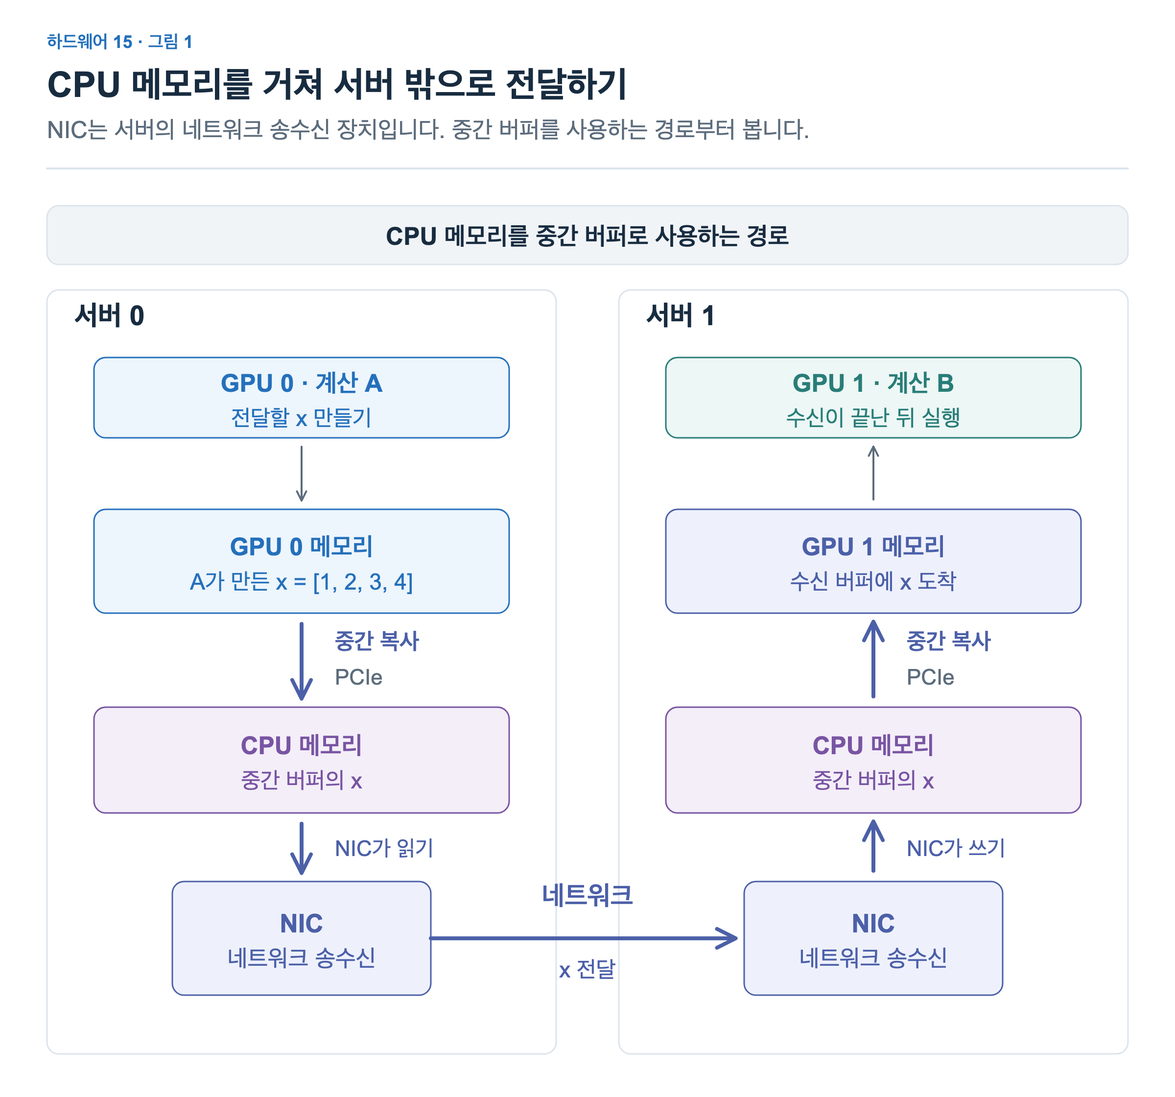
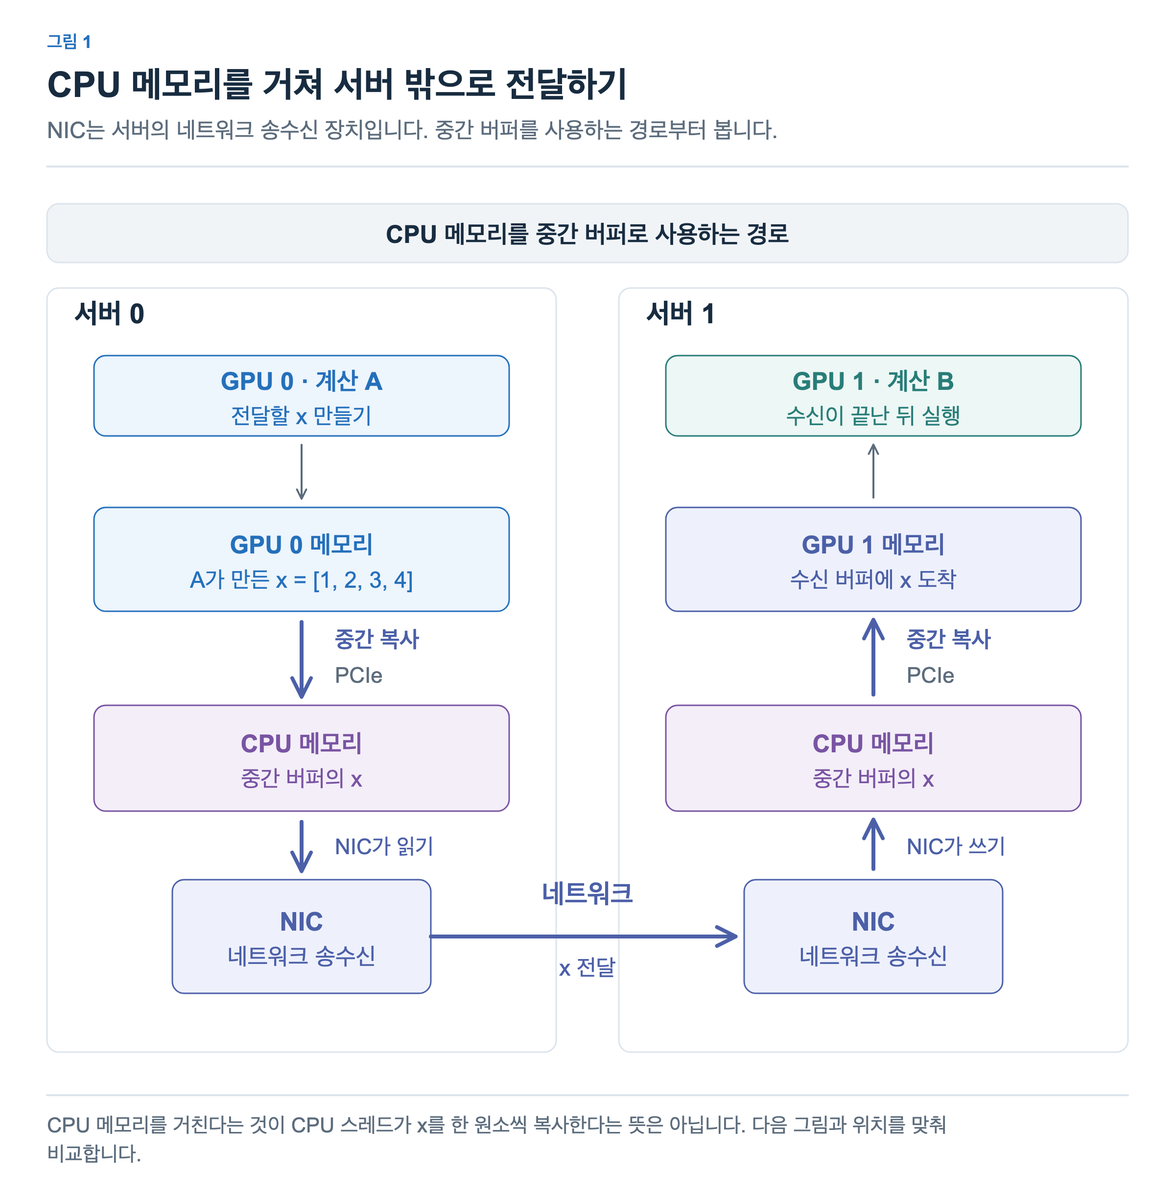
Port gpu-network-data-path figures to the shared visualization module
Figures are regenerated from src/data/figures/gpu-network-data-path with the standard frame
and in-image captions. Figures had no captions; new ko/en captions are drafted from the figures' own notes and the article text (please review).

diff --git a/src/data/figures/gpu-network-data-path/03-cpu-proxy.ts b/src/data/figures/gpu-network-data-path/03-cpu-proxy.ts
@@ -1,0 +1,76 @@
+import {C,Panel,markerUrl,type FigureSpec,type Locale} from '@llm-systems/viz';
+// Ported from the published SVG with its original geometry; replace parts with shared primitives when editing.
+export default {
+  articleId:"gpu-network-data-path",figureId:"03-cpu-proxy",number:"03-cpu-proxy",
+  layout:'wide',screens:['desktop'],
+  eyebrow:["그림 3","Figure 3"],
+  title:["CPU 프록시가 전송의 진행을 돕는 과정","How a CPU Proxy Helps Transfers Progress"],
+  subtitle:["데이터는 직접 전달하면서, CPU가 전송 요청과 완료 확인을 도울 수 있습니다.","Data moves directly while the CPU helps request transfers and check completion."],
+  alt:["이 그림은 GPUDirect RDMA와 CPU 프록시를 사용하는 경우의 송신 측 제어를 확대한다. 앞 그림과 GPU 메모리, NIC, 네트워크 위치 및 데이터 경로는 같다. CPU 사용자 코드는 NCCL을 호출하고 보조 스레드인 CPU 프록시는 데이터 버퍼와 구별된 GPU 진행 상태를 통한 데이터 준비 확인, NIC 전송 요청, 완료 확인과 GPU 진행 상태 반영을 담당한다. 주황 점선은 요청과 상태, 파란 실선은 GPU 메모리와 NIC 및 네트워크 사이 데이터 이동이다. 수신 측 제어는 생략하며 모든 NIC 경로가 CPU 프록시를 요구한다는 뜻이 아니다.","A sending-side CPU proxy used together with GPUDirect RDMA. The GPU memory, NIC and network positions and data path match the preceding figure. User CPU code calls NCCL. A CPU helper thread checks readiness through GPU progress state separate from x, requests the NIC transfer, checks completion and updates GPU-side state. Orange dashed arrows are requests and state; blue solid arrows are data movement. Receive-side control is omitted. Not every NIC path requires a CPU proxy."],
+  caption:["송신 측 제어만 확대했으며, 모든 NIC 경로에 CPU 프록시가 필요한 것은 아닙니다.","Only send-side control is shown; not every NIC path needs a CPU proxy."],
+  sources:[],
+  panels(locale:Locale){
+    const p=new Panel(locale,null,1247,1104,[48,208]);
+    p.el("rect",{x:48,y:210,width:1104,height:60,rx:12,fill:C.grayFill,stroke:C.line,"stroke-width":1.5});
+    p.el('text',{x:600,y:250,fill:C.ink,"font-size":25,"font-weight":600,"text-anchor":"middle"},["송신 측 CPU 프록시 확대 · GPUDirect RDMA 경로","Send-side CPU proxy detail · GPUDirect RDMA path"]);
+    p.el("rect",{x:48,y:296,width:520,height:780,rx:12,fill:C.paper,stroke:C.line,"stroke-width":1.5});
+    p.el('text',{x:76,y:332,fill:C.ink,"font-size":28,"font-weight":700,"text-anchor":"start"},["서버 0","Server 0"]);
+    p.el("rect",{x:632,y:296,width:520,height:780,rx:12,fill:C.paper,stroke:C.line,"stroke-width":1.5});
+    p.el('text',{x:660,y:332,fill:C.ink,"font-size":28,"font-weight":700,"text-anchor":"start"},["서버 1","Server 1"]);
+    p.el("rect",{x:96,y:365,width:424,height:82,rx:12,fill:C.grayFill,stroke:C.ink,"stroke-width":1.5});
+    p.el('text',{x:308,y:400,fill:C.ink,"font-size":25,"font-weight":600,"text-anchor":"middle"},["CPU · 사용자 코드","CPU · User code"]);
+    p.el('text',{x:308,y:435,fill:C.ink,"font-size":23,"font-weight":400,"text-anchor":"middle"},["NCCL 통신 호출","Call NCCL communication"]);
+    p.el("rect",{x:680,y:365,width:424,height:82,rx:12,fill:C.tealFill,stroke:C.teal,"stroke-width":1.5});
+    p.el('text',{x:892,y:400,fill:C.teal,"font-size":25,"font-weight":600,"text-anchor":"middle"},["GPU 1 · 계산 B","GPU 1 · Compute B"]);
+    p.el('text',{x:892,y:435,fill:C.teal,"font-size":23,"font-weight":400,"text-anchor":"middle"},["수신이 끝난 뒤 실행","Run after receive completes"]);
+    p.el("rect",{x:96,y:520,width:424,height:106,rx:12,fill:C.blueFill,stroke:C.blue,"stroke-width":1.5});
+    p.el('text',{x:308,y:567,fill:C.blue,"font-size":25,"font-weight":600,"text-anchor":"middle"},["GPU 0 메모리","GPU 0 memory"]);
+    p.el('text',{x:308,y:602,fill:C.blue,"font-size":23,"font-weight":400,"text-anchor":"middle"},["A가 만든 x = [1, 2, 3, 4]","A produced x = [1, 2, 3, 4]"]);
+    p.el("rect",{x:680,y:520,width:424,height:106,rx:12,fill:C.indigoFill,stroke:C.indigo,"stroke-width":1.5});
+    p.el('text',{x:892,y:567,fill:C.indigo,"font-size":25,"font-weight":600,"text-anchor":"middle"},["GPU 1 메모리","GPU 1 memory"]);
+    p.el('text',{x:892,y:602,fill:C.indigo,"font-size":23,"font-weight":400,"text-anchor":"middle"},["수신 버퍼에 x 도착","x arrives in receive buffer"]);
+    p.el("path",{d:"M892,510 V457",fill:"none",stroke:C.muted,"stroke-width":2,"marker-end":markerUrl(C.muted)});
+    p.el("rect",{x:176,y:900,width:264,height:116,rx:12,fill:C.indigoFill,stroke:C.indigo,"stroke-width":1.5});
+    p.el('text',{x:308,y:952,fill:C.indigo,"font-size":26,"font-weight":600,"text-anchor":"middle"},"NIC");
+    p.el('text',{x:308,y:987,fill:C.indigo,"font-size":(locale==='ko'?24:23),"font-weight":400,"text-anchor":"middle"},["네트워크 송수신","Network send/receive"]);
+    p.el("rect",{x:760,y:900,width:264,height:116,rx:12,fill:C.indigoFill,stroke:C.indigo,"stroke-width":1.5});
+    p.el('text',{x:892,y:952,fill:C.indigo,"font-size":26,"font-weight":600,"text-anchor":"middle"},"NIC");
+    p.el('text',{x:892,y:987,fill:C.indigo,"font-size":(locale==='ko'?24:23),"font-weight":400,"text-anchor":"middle"},["네트워크 송수신","Network send/receive"]);
+    p.el("path",{d:"M308,637 V889",fill:"none",stroke:C.indigo,"stroke-width":4,"marker-end":markerUrl(C.indigo)});
+    p.el('text',{x:342,y:698,fill:C.indigo,"font-size":24,"font-weight":600,"text-anchor":"start"},"PCIe");
+    p.el('text',{x:342,y:738,fill:C.muted,"font-size":23,"font-weight":400,"text-anchor":"start"},["NIC가","NIC"]);
+    p.el('text',{x:342,y:774,fill:C.muted,"font-size":23,"font-weight":400,"text-anchor":"start"},["x 읽기","reads x"]);
+    p.el("path",{d:"M892,889 V637",fill:"none",stroke:C.indigo,"stroke-width":4,"marker-end":markerUrl(C.indigo)});
+    p.el('text',{x:926,y:698,fill:C.indigo,"font-size":24,"font-weight":600,"text-anchor":"start"},"PCIe");
+    p.el('text',{x:926,y:738,fill:C.muted,"font-size":23,"font-weight":400,"text-anchor":"start"},["NIC가","NIC"]);
+    p.el('text',{x:926,y:774,fill:C.muted,"font-size":23,"font-weight":400,"text-anchor":"start"},["x 쓰기","writes x"]);
+    p.el("path",{d:"M440,958 H749",fill:"none",stroke:C.indigo,"stroke-width":4,"marker-end":markerUrl(C.indigo)});
+    p.el('text',{x:600,y:924,fill:C.indigo,"font-size":27,"font-weight":600,"text-anchor":"middle"},["네트워크","Network"]);
+    p.el('text',{x:600,y:998,fill:C.indigo,"font-size":23,"font-weight":400,"text-anchor":"middle"},["x 전달","Transfer x"]);
+    p.el("rect",{x:104,y:650,width:188,height:44,rx:12,fill:C.orangeFill,stroke:C.orange,"stroke-width":1.5});
+    p.el('text',{x:198,y:681,fill:C.orange,"font-size":(locale==='ko'?22:19),"font-weight":600,"text-anchor":"middle"},["GPU 진행 상태","GPU progress state"]);
+    p.el("rect",{x:96,y:730,width:200,height:104,rx:12,fill:C.orangeFill,stroke:C.orange,"stroke-width":1.5});
+    p.el('text',{x:196,y:776,fill:C.orange,"font-size":24,"font-weight":600,"text-anchor":"middle"},["CPU 프록시","CPU proxy"]);
+    p.el('text',{x:196,y:811,fill:C.orange,"font-size":22,"font-weight":400,"text-anchor":"middle"},["보조 스레드","Helper thread"]);
+    p.el("path",{d:"M96,406 H64 V782 H86",fill:"none",stroke:C.orange,"stroke-width":2.5,"marker-end":markerUrl(C.orange),"stroke-dasharray":"7 7"});
+    p.el("path",{d:"M166,695 V719",fill:"none",stroke:C.orange,"stroke-width":2.5,"marker-end":markerUrl(C.orange),"stroke-dasharray":"7 7"});
+    p.el("path",{d:"M246,729 V705",fill:"none",stroke:C.orange,"stroke-width":2.5,"marker-end":markerUrl(C.orange),"stroke-dasharray":"7 7"});
+    p.el("path",{d:"M236,835 V870 H210 V889",fill:"none",stroke:C.orange,"stroke-width":2.5,"marker-end":markerUrl(C.orange),"stroke-dasharray":"7 7"});
+    p.el("path",{d:"M176,978 H120 V845",fill:"none",stroke:C.orange,"stroke-width":2.5,"marker-end":markerUrl(C.orange),"stroke-dasharray":"7 7"});
+    p.el('text',{x:137,y:716,fill:C.orange,"font-size":23,"font-weight":600,"text-anchor":"start"},"①");
+    p.el('text',{x:250,y:716,fill:C.orange,"font-size":23,"font-weight":600,"text-anchor":"start"},"③");
+    p.el('text',{x:246,y:882,fill:C.orange,"font-size":23,"font-weight":600,"text-anchor":"start"},"②");
+    p.el('text',{x:82,y:936,fill:C.orange,"font-size":23,"font-weight":600,"text-anchor":"start"},"③");
+    p.el("path",{d:"M70,1125 H150",fill:"none",stroke:C.orange,"stroke-width":2.5,"marker-end":markerUrl(C.orange),"stroke-dasharray":"7 7"});
+    p.el('text',{x:170,y:1133,fill:C.orange,"font-size":23,"font-weight":400,"text-anchor":"start"},["요청·상태","Requests / state"]);
+    p.el("path",{d:"M400,1125 H480",fill:"none",stroke:C.indigo,"stroke-width":4,"marker-end":markerUrl(C.indigo)});
+    p.el('text',{x:500,y:1133,fill:C.indigo,"font-size":23,"font-weight":400,"text-anchor":"start"},["데이터 이동","Data movement"]);
+    p.el('text',{x:48,y:1197,fill:C.orange,"font-size":27,"font-weight":600,"text-anchor":"start"},["① 데이터 준비 확인","① Check data readiness"]);
+    p.el('text',{x:48,y:1239,fill:C.muted,"font-size":24,"font-weight":400,"text-anchor":"start"},["GPU 쪽에서 송신할 데이터가 준비되었는지 확인","Check whether the GPU-side data is ready to send"]);
+    p.el('text',{x:48,y:1297,fill:C.orange,"font-size":27,"font-weight":600,"text-anchor":"start"},["② 전송 요청","② Request transfer"]);
+    p.el('text',{x:48,y:1339,fill:C.muted,"font-size":24,"font-weight":400,"text-anchor":"start"},["NIC가 데이터를 읽어 보내도록 요청","Ask the NIC to read and send the data"]);
+    p.el('text',{x:48,y:1397,fill:C.orange,"font-size":27,"font-weight":600,"text-anchor":"start"},["③ 완료 확인과 상태 반영","③ Check completion and update state"]);
+    p.el('text',{x:48,y:1439,fill:C.muted,"font-size":24,"font-weight":400,"text-anchor":"start"},["NIC의 전송 완료를 확인하고 GPU 쪽 진행 상태에 반영","Check NIC transfer completion and update GPU-side progress state"]);
+    return [p];
+  },
+} satisfies FigureSpec;

diff --git a/src/data/figures/gpu-network-data-path/01-host-memory-staging.ts b/src/data/figures/gpu-network-data-path/01-host-memory-staging.ts
@@ -1,0 +1,61 @@
+import {C,Panel,markerUrl,type FigureSpec,type Locale} from '@llm-systems/viz';
+// Ported from the published SVG with its original geometry; replace parts with shared primitives when editing.
+export default {
+  articleId:"gpu-network-data-path",figureId:"01-host-memory-staging",number:"01-host-memory-staging",
+  layout:'wide',screens:['desktop'],
+  eyebrow:["그림 1","Figure 1"],
+  title:["CPU 메모리를 거쳐 서버 밖으로 전달하기","Sending Across Servers via CPU Memory"],
+  subtitle:["NIC는 서버의 네트워크 송수신 장치입니다. 중간 버퍼를 사용하는 경로부터 봅니다.","A NIC sends and receives network data. Start with an intermediate-buffer path."],
+  alt:["CPU 메모리를 중간 버퍼로 사용하는 경로의 예시다. 서버 0에서 GPU 0의 A가 만든 x를 CPU 메모리에 복사하고 NIC가 그 버퍼를 읽어 네트워크로 전송한다. 서버 1의 NIC가 받은 x를 CPU 메모리에 쓰고 GPU 1 메모리로 복사한다. 수신이 완료되어 값을 사용할 수 있게 되면 B가 실행된다. CPU 메모리를 사용한다는 것은 CPU의 스레드가 x를 직접 한 원소씩 복사한다는 뜻이 아니다. 다음 그림과 GPU 메모리, NIC, 네트워크 위치를 맞춰 중간 복사가 빠지는 부분을 비교한다.","An example path using intermediate CPU-memory buffers. On server 0, x produced by A on GPU 0 is copied to CPU memory and read by the NIC for network transfer. On server 1 the NIC writes x to CPU memory, then it is copied to GPU 1 memory. B runs once the receive completes and x is usable. CPU memory does not mean CPU threads copy each element. GPU memory, NICs and the network have the same positions in the next figure."],
+  caption:["CPU 메모리를 거친다는 것이 CPU 스레드가 x를 한 원소씩 복사한다는 뜻은 아닙니다. 다음 그림과 위치를 맞춰 비교합니다.","Going through CPU memory does not mean CPU threads copy x element by element. Positions match the next figure for comparison."],
+  sources:[],
+  panels(locale:Locale){
+    const p=new Panel(locale,null,876,1104,[48,208]);
+    p.el("rect",{x:48,y:210,width:1104,height:60,rx:12,fill:C.grayFill,stroke:C.line,"stroke-width":1.5});
+    p.el('text',{x:600,y:250,fill:C.ink,"font-size":25,"font-weight":600,"text-anchor":"middle"},["CPU 메모리를 중간 버퍼로 사용하는 경로","Path using CPU memory as an intermediate buffer"]);
+    p.el("rect",{x:48,y:296,width:520,height:780,rx:12,fill:C.paper,stroke:C.line,"stroke-width":1.5});
+    p.el('text',{x:76,y:332,fill:C.ink,"font-size":28,"font-weight":700,"text-anchor":"start"},["서버 0","Server 0"]);
+    p.el("rect",{x:632,y:296,width:520,height:780,rx:12,fill:C.paper,stroke:C.line,"stroke-width":1.5});
+    p.el('text',{x:660,y:332,fill:C.ink,"font-size":28,"font-weight":700,"text-anchor":"start"},["서버 1","Server 1"]);
+    p.el("rect",{x:96,y:365,width:424,height:82,rx:12,fill:C.blueFill,stroke:C.blue,"stroke-width":1.5});
+    p.el('text',{x:308,y:400,fill:C.blue,"font-size":25,"font-weight":600,"text-anchor":"middle"},["GPU 0 · 계산 A","GPU 0 · Compute A"]);
+    p.el('text',{x:308,y:435,fill:C.blue,"font-size":23,"font-weight":400,"text-anchor":"middle"},["전달할 x 만들기","Produce x to send"]);
+    p.el("rect",{x:680,y:365,width:424,height:82,rx:12,fill:C.tealFill,stroke:C.teal,"stroke-width":1.5});
+    p.el('text',{x:892,y:400,fill:C.teal,"font-size":25,"font-weight":600,"text-anchor":"middle"},["GPU 1 · 계산 B","GPU 1 · Compute B"]);
+    p.el('text',{x:892,y:435,fill:C.teal,"font-size":23,"font-weight":400,"text-anchor":"middle"},["수신이 끝난 뒤 실행","Run after receive completes"]);
+    p.el("rect",{x:96,y:520,width:424,height:106,rx:12,fill:C.blueFill,stroke:C.blue,"stroke-width":1.5});
+    p.el('text',{x:308,y:567,fill:C.blue,"font-size":25,"font-weight":600,"text-anchor":"middle"},["GPU 0 메모리","GPU 0 memory"]);
+    p.el('text',{x:308,y:602,fill:C.blue,"font-size":23,"font-weight":400,"text-anchor":"middle"},["A가 만든 x = [1, 2, 3, 4]","A produced x = [1, 2, 3, 4]"]);
+    p.el("rect",{x:680,y:520,width:424,height:106,rx:12,fill:C.indigoFill,stroke:C.indigo,"stroke-width":1.5});
+    p.el('text',{x:892,y:567,fill:C.indigo,"font-size":25,"font-weight":600,"text-anchor":"middle"},["GPU 1 메모리","GPU 1 memory"]);
+    p.el('text',{x:892,y:602,fill:C.indigo,"font-size":23,"font-weight":400,"text-anchor":"middle"},["수신 버퍼에 x 도착","x arrives in receive buffer"]);
+    p.el("path",{d:"M308,456 V510",fill:"none",stroke:C.muted,"stroke-width":2,"marker-end":markerUrl(C.muted)});
+    p.el("path",{d:"M892,510 V457",fill:"none",stroke:C.muted,"stroke-width":2,"marker-end":markerUrl(C.muted)});
+    p.el("rect",{x:176,y:900,width:264,height:116,rx:12,fill:C.indigoFill,stroke:C.indigo,"stroke-width":1.5});
+    p.el('text',{x:308,y:952,fill:C.indigo,"font-size":26,"font-weight":600,"text-anchor":"middle"},"NIC");
+    p.el('text',{x:308,y:987,fill:C.indigo,"font-size":(locale==='ko'?24:23),"font-weight":400,"text-anchor":"middle"},["네트워크 송수신","Network send/receive"]);
+    p.el("rect",{x:760,y:900,width:264,height:116,rx:12,fill:C.indigoFill,stroke:C.indigo,"stroke-width":1.5});
+    p.el('text',{x:892,y:952,fill:C.indigo,"font-size":26,"font-weight":600,"text-anchor":"middle"},"NIC");
+    p.el('text',{x:892,y:987,fill:C.indigo,"font-size":(locale==='ko'?24:23),"font-weight":400,"text-anchor":"middle"},["네트워크 송수신","Network send/receive"]);
+    p.el("rect",{x:96,y:722,width:424,height:108,rx:12,fill:C.purpleFill,stroke:C.purple,"stroke-width":1.5});
+    p.el('text',{x:308,y:770,fill:C.purple,"font-size":25,"font-weight":600,"text-anchor":"middle"},["CPU 메모리","CPU memory"]);
+    p.el('text',{x:308,y:805,fill:C.purple,"font-size":23,"font-weight":400,"text-anchor":"middle"},["중간 버퍼의 x","x in intermediate buffer"]);
+    p.el("rect",{x:680,y:722,width:424,height:108,rx:12,fill:C.purpleFill,stroke:C.purple,"stroke-width":1.5});
+    p.el('text',{x:892,y:770,fill:C.purple,"font-size":25,"font-weight":600,"text-anchor":"middle"},["CPU 메모리","CPU memory"]);
+    p.el('text',{x:892,y:805,fill:C.purple,"font-size":23,"font-weight":400,"text-anchor":"middle"},["중간 버퍼의 x","x in intermediate buffer"]);
+    p.el("path",{d:"M308,637 V711",fill:"none",stroke:C.indigo,"stroke-width":4,"marker-end":markerUrl(C.indigo)});
+    p.el("path",{d:"M308,841 V889",fill:"none",stroke:C.indigo,"stroke-width":4,"marker-end":markerUrl(C.indigo)});
+    p.el("path",{d:"M892,711 V637",fill:"none",stroke:C.indigo,"stroke-width":4,"marker-end":markerUrl(C.indigo)});
+    p.el("path",{d:"M892,889 V841",fill:"none",stroke:C.indigo,"stroke-width":4,"marker-end":markerUrl(C.indigo)});
+    p.el('text',{x:342,y:663,fill:C.indigo,"font-size":23,"font-weight":600,"text-anchor":"start"},["중간 복사","Staging copy"]);
+    p.el('text',{x:342,y:699,fill:C.muted,"font-size":22,"font-weight":400,"text-anchor":"start"},"PCIe");
+    p.el('text',{x:926,y:663,fill:C.indigo,"font-size":23,"font-weight":600,"text-anchor":"start"},["중간 복사","Staging copy"]);
+    p.el('text',{x:926,y:699,fill:C.muted,"font-size":22,"font-weight":400,"text-anchor":"start"},"PCIe");
+    p.el('text',{x:342,y:874,fill:C.indigo,"font-size":22,"font-weight":400,"text-anchor":"start"},["NIC가 읽기","NIC reads"]);
+    p.el('text',{x:926,y:874,fill:C.indigo,"font-size":22,"font-weight":400,"text-anchor":"start"},["NIC가 쓰기","NIC writes"]);
+    p.el("path",{d:"M440,958 H749",fill:"none",stroke:C.indigo,"stroke-width":4,"marker-end":markerUrl(C.indigo)});
+    p.el('text',{x:600,y:924,fill:C.indigo,"font-size":27,"font-weight":600,"text-anchor":"middle"},["네트워크","Network"]);
+    p.el('text',{x:600,y:998,fill:C.indigo,"font-size":23,"font-weight":400,"text-anchor":"middle"},["x 전달","Transfer x"]);
+    return [p];
+  },
+} satisfies FigureSpec;

diff --git a/src/data/figures/gpu-network-data-path/02-direct-gpu-memory.ts b/src/data/figures/gpu-network-data-path/02-direct-gpu-memory.ts
@@ -1,0 +1,53 @@
+import {C,Panel,markerUrl,type FigureSpec,type Locale} from '@llm-systems/viz';
+// Ported from the published SVG with its original geometry; replace parts with shared primitives when editing.
+export default {
+  articleId:"gpu-network-data-path",figureId:"02-direct-gpu-memory",number:"02-direct-gpu-memory",
+  layout:'wide',screens:['desktop'],
+  eyebrow:["그림 2","Figure 2"],
+  title:["중간 복사를 줄이는 GPUDirect RDMA","Reducing Copies with GPUDirect RDMA"],
+  subtitle:["NIC가 GPU 메모리에 직접 접근해 CPU 메모리의 중간 버퍼를 거치지 않습니다.","The NIC directly accesses GPU memory, bypassing intermediate CPU buffers."],
+  alt:["GPUDirect RDMA가 지원되는 경로에서 서버 0의 GPU 메모리에 A가 만든 x가 있다. 송신 NIC가 PCIe를 통해 x를 읽고 네트워크로 전달한다. 서버 1의 수신 NIC는 PCIe를 통해 GPU 메모리에 x를 쓴다. 수신 완료 뒤 B가 실행된다. NIC는 네트워크 송수신 장치이며 실제 데이터는 CPU 메모리를 중간 버퍼로 거치지 않는다. 이 그림은 CPU의 제어 참여 여부를 나타내지 않는다.","With GPUDirect RDMA support, the sending NIC reads x produced by A directly from GPU 0 memory through PCIe and sends it across the network. The receiving NIC writes x into GPU 1 memory through PCIe. B runs after receive completion. The data does not use intermediate CPU-memory buffers. The figure does not specify whether the CPU participates in transfer control."],
+  caption:["GPUDirect RDMA를 지원하는 경로입니다. 이 그림은 CPU가 제어에 참여하는지 여부를 나타내지 않습니다.","This is a path that supports GPUDirect RDMA; the figure does not show whether the CPU takes part in control."],
+  sources:[],
+  panels(locale:Locale){
+    const p=new Panel(locale,null,876,1104,[48,208]);
+    p.el("rect",{x:48,y:210,width:1104,height:60,rx:12,fill:C.grayFill,stroke:C.line,"stroke-width":1.5});
+    p.el('text',{x:600,y:250,fill:C.ink,"font-size":25,"font-weight":600,"text-anchor":"middle"},["GPUDirect RDMA가 지원되는 환경","Environment with GPUDirect RDMA support"]);
+    p.el("rect",{x:48,y:296,width:520,height:780,rx:12,fill:C.paper,stroke:C.line,"stroke-width":1.5});
+    p.el('text',{x:76,y:332,fill:C.ink,"font-size":28,"font-weight":700,"text-anchor":"start"},["서버 0","Server 0"]);
+    p.el("rect",{x:632,y:296,width:520,height:780,rx:12,fill:C.paper,stroke:C.line,"stroke-width":1.5});
+    p.el('text',{x:660,y:332,fill:C.ink,"font-size":28,"font-weight":700,"text-anchor":"start"},["서버 1","Server 1"]);
+    p.el("rect",{x:96,y:365,width:424,height:82,rx:12,fill:C.blueFill,stroke:C.blue,"stroke-width":1.5});
+    p.el('text',{x:308,y:400,fill:C.blue,"font-size":25,"font-weight":600,"text-anchor":"middle"},["GPU 0 · 계산 A","GPU 0 · Compute A"]);
+    p.el('text',{x:308,y:435,fill:C.blue,"font-size":23,"font-weight":400,"text-anchor":"middle"},["전달할 x 만들기","Produce x to send"]);
+    p.el("rect",{x:680,y:365,width:424,height:82,rx:12,fill:C.tealFill,stroke:C.teal,"stroke-width":1.5});
+    p.el('text',{x:892,y:400,fill:C.teal,"font-size":25,"font-weight":600,"text-anchor":"middle"},["GPU 1 · 계산 B","GPU 1 · Compute B"]);
+    p.el('text',{x:892,y:435,fill:C.teal,"font-size":23,"font-weight":400,"text-anchor":"middle"},["수신이 끝난 뒤 실행","Run after receive completes"]);
+    p.el("rect",{x:96,y:520,width:424,height:106,rx:12,fill:C.blueFill,stroke:C.blue,"stroke-width":1.5});
+    p.el('text',{x:308,y:567,fill:C.blue,"font-size":25,"font-weight":600,"text-anchor":"middle"},["GPU 0 메모리","GPU 0 memory"]);
+    p.el('text',{x:308,y:602,fill:C.blue,"font-size":23,"font-weight":400,"text-anchor":"middle"},["A가 만든 x = [1, 2, 3, 4]","A produced x = [1, 2, 3, 4]"]);
+    p.el("rect",{x:680,y:520,width:424,height:106,rx:12,fill:C.indigoFill,stroke:C.indigo,"stroke-width":1.5});
+    p.el('text',{x:892,y:567,fill:C.indigo,"font-size":25,"font-weight":600,"text-anchor":"middle"},["GPU 1 메모리","GPU 1 memory"]);
+    p.el('text',{x:892,y:602,fill:C.indigo,"font-size":23,"font-weight":400,"text-anchor":"middle"},["수신 버퍼에 x 도착","x arrives in receive buffer"]);
+    p.el("path",{d:"M308,456 V510",fill:"none",stroke:C.muted,"stroke-width":2,"marker-end":markerUrl(C.muted)});
+    p.el("path",{d:"M892,510 V457",fill:"none",stroke:C.muted,"stroke-width":2,"marker-end":markerUrl(C.muted)});
+    p.el("rect",{x:176,y:900,width:264,height:116,rx:12,fill:C.indigoFill,stroke:C.indigo,"stroke-width":1.5});
+    p.el('text',{x:308,y:952,fill:C.indigo,"font-size":26,"font-weight":600,"text-anchor":"middle"},"NIC");
+    p.el('text',{x:308,y:987,fill:C.indigo,"font-size":(locale==='ko'?24:23),"font-weight":400,"text-anchor":"middle"},["네트워크 송수신","Network send/receive"]);
+    p.el("rect",{x:760,y:900,width:264,height:116,rx:12,fill:C.indigoFill,stroke:C.indigo,"stroke-width":1.5});
+    p.el('text',{x:892,y:952,fill:C.indigo,"font-size":26,"font-weight":600,"text-anchor":"middle"},"NIC");
+    p.el('text',{x:892,y:987,fill:C.indigo,"font-size":(locale==='ko'?24:23),"font-weight":400,"text-anchor":"middle"},["네트워크 송수신","Network send/receive"]);
+    p.el("path",{d:"M308,637 V889",fill:"none",stroke:C.indigo,"stroke-width":4,"marker-end":markerUrl(C.indigo)});
+    p.el('text',{x:342,y:698,fill:C.indigo,"font-size":24,"font-weight":600,"text-anchor":"start"},"PCIe");
+    p.el('text',{x:342,y:738,fill:C.muted,"font-size":23,"font-weight":400,"text-anchor":"start"},["NIC가","NIC"]);
+    p.el('text',{x:342,y:774,fill:C.muted,"font-size":23,"font-weight":400,"text-anchor":"start"},["x 읽기","reads x"]);
+    p.el("path",{d:"M892,889 V637",fill:"none",stroke:C.indigo,"stroke-width":4,"marker-end":markerUrl(C.indigo)});
+    p.el('text',{x:926,y:698,fill:C.indigo,"font-size":24,"font-weight":600,"text-anchor":"start"},"PCIe");
+    p.el('text',{x:926,y:738,fill:C.muted,"font-size":23,"font-weight":400,"text-anchor":"start"},["NIC가","NIC"]);
+    p.el('text',{x:926,y:774,fill:C.muted,"font-size":23,"font-weight":400,"text-anchor":"start"},["x 쓰기","writes x"]);
+    p.el("path",{d:"M440,958 H749",fill:"none",stroke:C.indigo,"stroke-width":4,"marker-end":markerUrl(C.indigo)});
+    p.el('text',{x:600,y:924,fill:C.indigo,"font-size":27,"font-weight":600,"text-anchor":"middle"},["네트워크","Network"]);
+    p.el('text',{x:600,y:998,fill:C.indigo,"font-size":23,"font-weight":400,"text-anchor":"middle"},["x 전달","Transfer x"]);
+    return [p];
+  },
+} satisfies FigureSpec;
